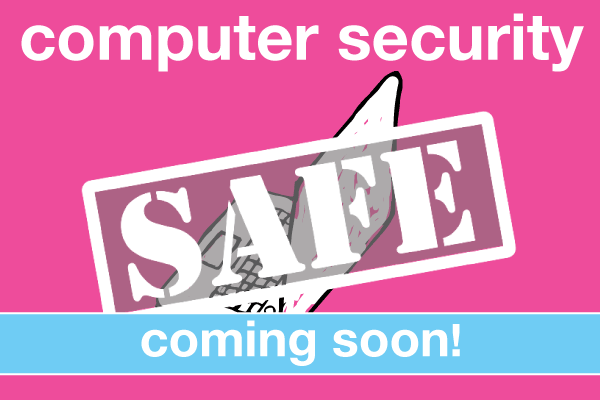
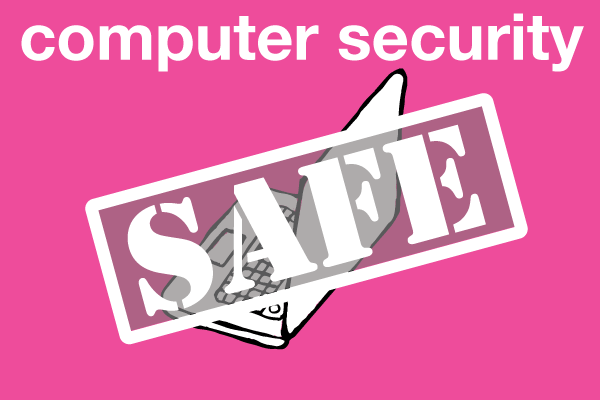
compsec

diff --git a/db/computing.rb b/db/computing.rb
@@ -105,7 +105,31 @@ answer = Answer.create(question_id: question.id, image: "answer_images/answer_b.
 answer = Answer.create(question_id: question.id, image: "answer_images/answer_c.png", answer_content: "Without network standards, we would not be able to walk into a coffee shop and connect our phones or laptops to the free WiFi")
 answer = Answer.create(question_id: question.id, image: "answer_images/answer_d.png", answer_content: "All of the above are true", correct: "true")
 
-topic = FactoryGirl.create(:topic, name:"computer security",  navgraphic: "navgraphics/computersecurity.png", catagory_id: catagory.id, available: "no")
+topic = FactoryGirl.create(:topic, name:"computer security",  navgraphic: "navgraphics/computersecurity.png", catagory_id: catagory.id, available: "yes")
+section = FactoryGirl.create(:section, topic_id: topic.id, linking: "first", main_idea:"Computer security is used to protect information from unauthorized access or change", header:"Computer security is used to protect information from <span class='accent1'>unauthorized access</span> or <span class='accent1'>change</span>", section_image: "section_images/confidentialityintegrityavailability.png", image_position: "imagerightlarge", content: "People want to keep their computers, phones, and tablets secure. That means that they do not want to have their sensitive information, like bank account data, stolen or changed without their permission. <br><br>People, governments, companies, and other organizations all want their computer systems to be secure. They also want to be able to access their computers and information whenever they need to. <br><br>Computer security is commonly referred to as having three key dimensions: Confidentiality, Integrity, and Availability. ")
+section = FactoryGirl.create(:section, topic_id: topic.id, linking: "second", main_idea:"Confidentiality means that information is secure and private from people who should not access it", header:"<span class='accent1'>Confidentiality</span> means that information is secure and <span class='accent1'>private</span> from people who should not access it", section_image: "section_images/lockedlaptop_100796185.jpg", image_position: "imageleftmedium", content: "Many things are done with computers now that used to be done on paper. This computerization means that there is now a vast amount of information held by computers. Much of this information should only be available to people who are allowed to have it. For example, computer systems used by doctors, hospitals, and insurance companies hold people's private information, like social security numbers and health histories. Banking systems store bank account numbers, account balances, social security numbers, and more. Corporations keep trade secrets on computer systems. And governments keep information about government employees and officials, military staff and systems, intelligence, strategies, and much more that they would not want in the hands of other countries. Private information can be stolen, sold, used for profit, or used to harm companies or countries. <br><br>For example, multiple companies have had their payment systems hacked into and credit card numbers stolen and sold to others. Hacking is when people write computer code to get into computer systems they are not supposed to access. The people who purchase these credit card numbers often create new fake credit cards from them, and then use the credit cards to purchase things that the credit card owner does not know they are paying for. Stealing credit card numbers is a type of &quot;cybercrime&quot;. A cybercrime is an crime that is accomplished through unauthorized access of a computer system. Confidentiality means that information can only be accessed by people who should be able to access it. Confidentiality is important not only for peoples' home computers, but also large computer systems used by companies and governments. ")
+section = FactoryGirl.create(:section, topic_id: topic.id, linking: "third", main_idea:"Integrity means that the information is secure from unauthorized changes ", header:"<span class='accent1'>Integrity</span> means that information is secure from <span class='accent1'>unauthorized changes</span>", section_image: "section_images/dataprotect_103215926.jpg", image_position: "imagerightxsmall", content: "People, companies, and governments do not want their important data to be changed by someone who should not be able to change the data. For example, a bank should protect its customers' bank accounts from theft. It should not be possible to hack into the bank and move money out of accounts without permission. Stealing money by hacking accounts and moving money to places it is not supposed to be is called &quot;cybertheft&quot;. It is a type of cybercrime. ")
+section = FactoryGirl.create(:section, topic_id: topic.id, linking: "fourth", main_idea:"Availability means that a system can be accessed when needed without delay", header:"<span class='accent1'>Availability</span> means that a system can be <span class='accent1'>accessed</span> when needed <span class='accent1'>without delay</span>", section_image: "section_images/compsec_152697521.jpg", image_position: "imageleftsmall", content: "You have probably at some point tried to access a web site and have not been able to get to it. Sometimes web sites have problems that make them unavailable. The problems could be related to problems the company is having with a web site update, for example. They may have made a change that accidentally broke something. Or, sometimes there is a problem in the network, and that can cause delays and lower performance. <br><br>But, sometimes the problem is that someone is intentionally attacking the site. One type of attack is called a &quot;Denial of Service&quot; (DOS) attack. That means that someone is sending many, many requests to the web site, just to make the web site run slow and become unavailabile. This attack can be done by having the requests come from many different locations at once. Sometimes other sites are used to launch the attack, and those site owners may have no idea that their systems are being used for it. A Denial of Service attach from many different locations is called a &quot;Distributed Denial of Service&quot; or DDOS attack. The whole goal of this type of computer system attack is to bring a system down so that people cannot access it. DDOS attacks have been used to bring down news sites, like CNN, social media sites, like Facebook, commerce sites like Amazon.com, and government sites, like the White House and the Pentagon.")
+section = FactoryGirl.create(:section, topic_id: topic.id, linking: "fifth", main_idea:"A computer virus is software written to do something bad to a computer system", header:"A <span class='accent1'>computer virus</span> is software written to do something <span class='accent1'>bad</span> to a computer system", section_image: "section_images/trojanhorse_418097401.jpg", image_position: "imagerightmedium", content: "A computer virus is a type of software program that is written to do something bad to a computer. Sometimes the type of software that is written to do bad things to computer systems is called &quot;malware&quot;. Malware can destroy information on your computer, or force your computer to run poorly. Or, it could be used to capture passwords for bank accounts or other systems, for example by capturing what you are typing. A computer program that sits in the background capturing what you do or type is called a &quot;trojan horse&quot;. <br><br>A virus could to trick you into thinking that your computer has a problem, maybe through a message box that comes up when you are in a web browser. Sometimes these might give you a phone number to call to help you &quot;fix&quot; your problem. When you call, you will be connected to someone who will ask you for personal information. Or, they may have you do something to give them remote access to your computer (which will then let them capture passwords or do other destructive things.)<br><br>Or, a virus could lock you out of your system and data until you pay someone money, a &quot;ransom&quot;, for them to release your computer - this is called &quot;ransomware&quot;.<br><br>Antivirus software is a type of software that is designed to protect your computer from viruses. New viruses are created all the time, so antivirus software has to be updated all of the time, too. To keep your computers safe, be careful about Internet sites you visit, don't click on links to places you don't know much about, and don't ever enter passwords on a public WiFi hot spot. If you see a message that your computer has a virus, and tells you to call a number - don't do anything, and get an adult with some computer skills to help you. And don't ever share your passwords! Any time your computer is behaving differently and doing unexpected things, you should tell an adult. You might have a computer virus.")
+
+question = Question.create(catagory_id: catagory.id, topic_id: topic.id, question_num: "1", question_content: "What are three important dimensions of computer security?", question_image: "section_images/confidentialityintegrityavailability.png",explanation: "Confidentiality means that sensitive information, like bank account data, credit card numbers, and other personal information cannot be accessed by people who should not be able to see it. Integrity means that information cannot be changed by people who are not supposed to change it. Availability means that people can get to their computers and information whenever needed. ")
+answer = Answer.create(question_id: question.id, image: "answer_images/answer_a.png", answer_content: "Apples, bananas, and canteloupe")
+answer = Answer.create(question_id: question.id, image: "answer_images/answer_b.png", answer_content: "Aardvarks, bats, and cave men")
+answer = Answer.create(question_id: question.id, image: "answer_images/answer_c.png", answer_content: "Confidentiality, integrity, and availability", correct: "true")
+
+question = Question.create(catagory_id: catagory.id, topic_id: topic.id, question_num: "2", question_content: "What kind of data should be kept confidential from hackers?", question_image: "section_images/dataprotect_103215926.jpg",explanation: "Much of information now stored on computers should only be available to people who are allowed to have it. For example, computer systems used by doctors and insurance companies hold social security numbers and health histories. Banking systems store account numbers and account balances. Corporations keep trade secrets on computer systems. Governments keep information about employees and military information that should not be in the hands of other countries. As more and more important information is held by computers, it becomes even more important to protect it.")
+answer = Answer.create(question_id: question.id, image: "answer_images/answer_a.png", answer_content: "Information about bank accounts")
+answer = Answer.create(question_id: question.id, image: "answer_images/answer_b.png", answer_content: "Identifying information like social security numbers and drivers licenses")
+answer = Answer.create(question_id: question.id, image: "answer_images/answer_c.png", answer_content: "Credit card numbers, names, and addresses")
+answer = Answer.create(question_id: question.id, image: "answer_images/answer_d.png", answer_content: "All of the above", correct: "true")
+
+question = Question.create(catagory_id: catagory.id, topic_id: topic.id, question_num: "3", question_content: "What is malware?", question_image: "section_images/trojanhorse_418097401.jpg",explanation: "Malware is software designed to do something bad to computers and computer systems. There are many different types of malware, and new malware is written all the time. Ransomware locks people out of their systems until money is paid to free it. A trojan horse sneaks onto computers and then silently does bad things, like capturing passwords, in the background.")
+answer = Answer.create(question_id: question.id, image: "answer_images/answer_a.png", answer_content: "Computer software that is used to play games")
+answer = Answer.create(question_id: question.id, image: "answer_images/answer_b.png", answer_content: "Computer software that comes from a company named Mal Inc.")
+answer = Answer.create(question_id: question.id, image: "answer_images/answer_c.png", answer_content: "Computer software that is written to do bad things, like steal information and lock people out of their data", correct: "true")
+
+
+
 topic = FactoryGirl.create(:topic, name:"future of computing",  navgraphic: "navgraphics/computing_devices.png", catagory_id: catagory.id, available: "no")
 #topic = FactoryGirl.create(:topic, name:"how computers work",  navgraphic: "navgraphics/computeranatomy.png", catagory_id: catagory.id, available: "no")
 

diff --git a/db/structures.rb b/db/structures.rb
@@ -71,7 +71,7 @@ answer = Answer.create(question_id: question.id, image: "answer_images/answer_d.
 
 
 #topic = FactoryGirl.create(:topic, name:"arches",  navgraphic: "navgraphics/arches_coming_soon.png", catagory_id: catagory.id, available: "no")
-topic = FactoryGirl.create(:topic, name:"arches",  navgraphic: "navgraphics/arches_beams_columns.png", catagory_id: catagory.id)
+topic = FactoryGirl.create(:topic, name:"arches beams and columns",  navgraphic: "navgraphics/arches_beams_columns.png", catagory_id: catagory.id)
 section = FactoryGirl.create(:section, topic_id: topic.id, linking:"first", main_idea:"Arches, beams, and columns are key elements of structures", header:"Arches, beams, and columns are key <span class='accent1'>structural elements</span>", section_image: "section_images/archbeamcolumnset.png", image_position: "imagerightmedium", content:"A structural element is simply a specific type of part in a structure. Structural elements help the structure stand up and hold itself together. Arches, beams and columns are key structural elements. <br><br>Structural elements - parts of a structure - are put together to hold the load of a structure. A structure must be designed to withstand the forces upon it. Those forces include the structure's own weight, the weight of things on and in the structure, and external forces like wind and earthquakes. ")
 section = FactoryGirl.create(:section, topic_id: topic.id, linking:"second", main_idea:"Structural elements can be under compression, tension, or torsion", header:"Structural elements can be under <span class='accent1'>compression,</span> <span class='accent1'>tension,</span> or <span class='accent1'>torsion</span>", section_image: "section_images/forcesdiagram.png", image_position: "imagerightsmall", content:"Tension, compression, and torsion are three different ways that structures respond to the forces, pushes and pulls, exerted on them. Structural elements can be under tension (stretching out), compression (pushing down or in) and torsion (twisting). Compression comes from a pushing force, such as when you sit on a chair and the chair seat compresses down under your weight. Tension comes from a pulling force, such as when you stretch out a rubber band. And torsion is a twisting action, such as a swing might do in the wind. Sometimes a particular structural element may be under more than one of these forces.")
 section = FactoryGirl.create(:section, topic_id: topic.id, linking:"third", main_idea:"A column is a vertical structural element that absorbs a compressive load", header:"A <span class='accent1'>column</span> is a <span class='accent1'>vertical</span> structural element that absorbs a <span class='accent1'>compressive load</span>", section_image: "section_images/examplesofcolumns.png", image_position: "imagerightmedium", content:"Vertical means that the element faces upward toward the sky. A compressive load means that the load on the top of the column, such as a roof, pushes down on it with its weight. <br><br>A column absorbs a compressive load, and transmits the load from the ceiling or roof to the foundation of the structure or other structural elements below. For example, in a simple structure with four columns in each corner, the weight of the roof will be transmitted down the four columns to the foundation.")
